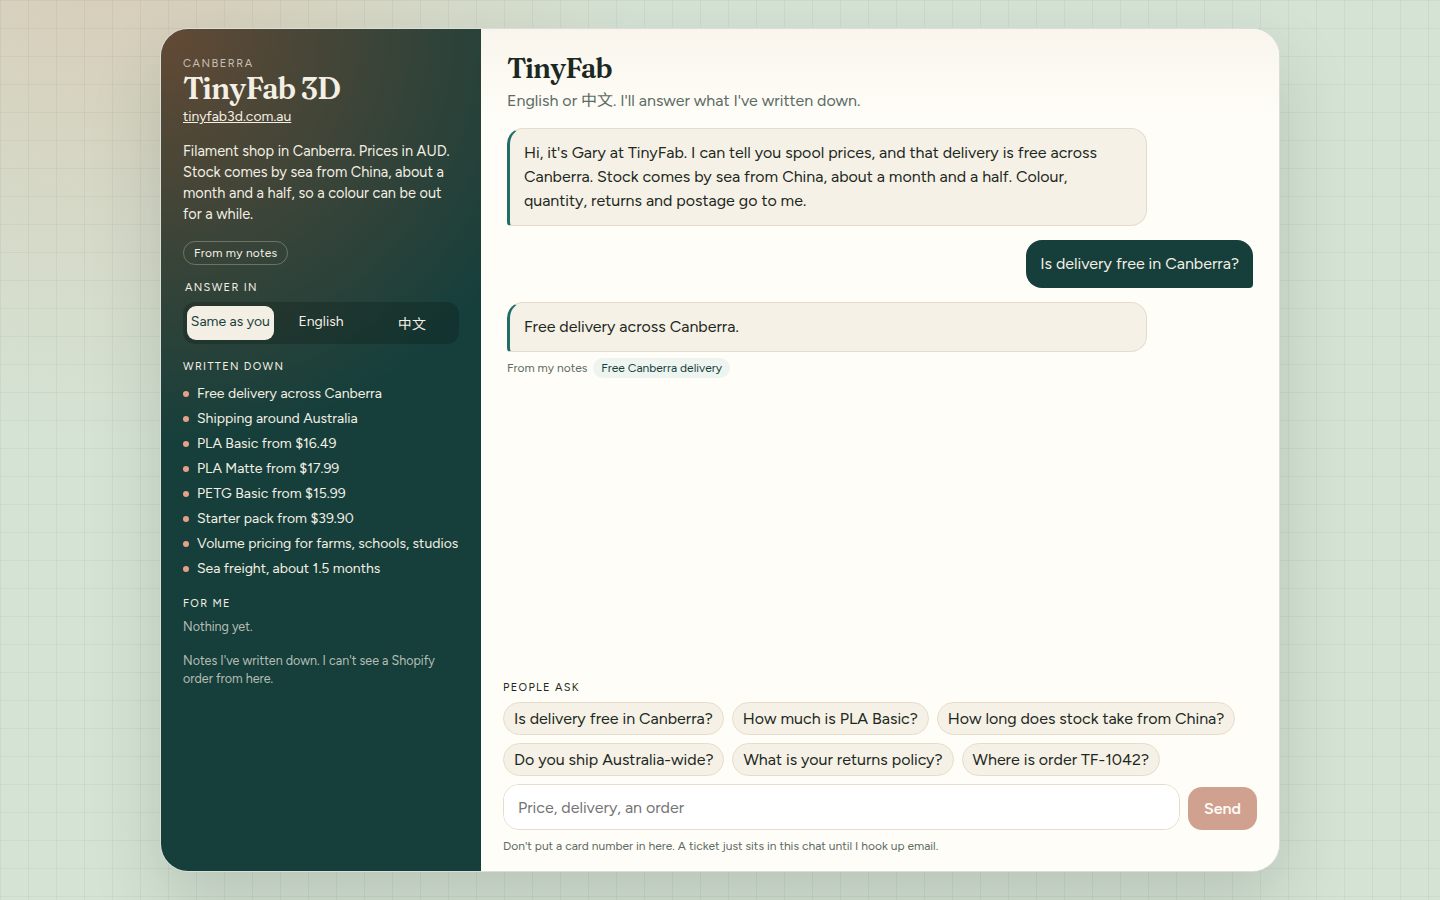
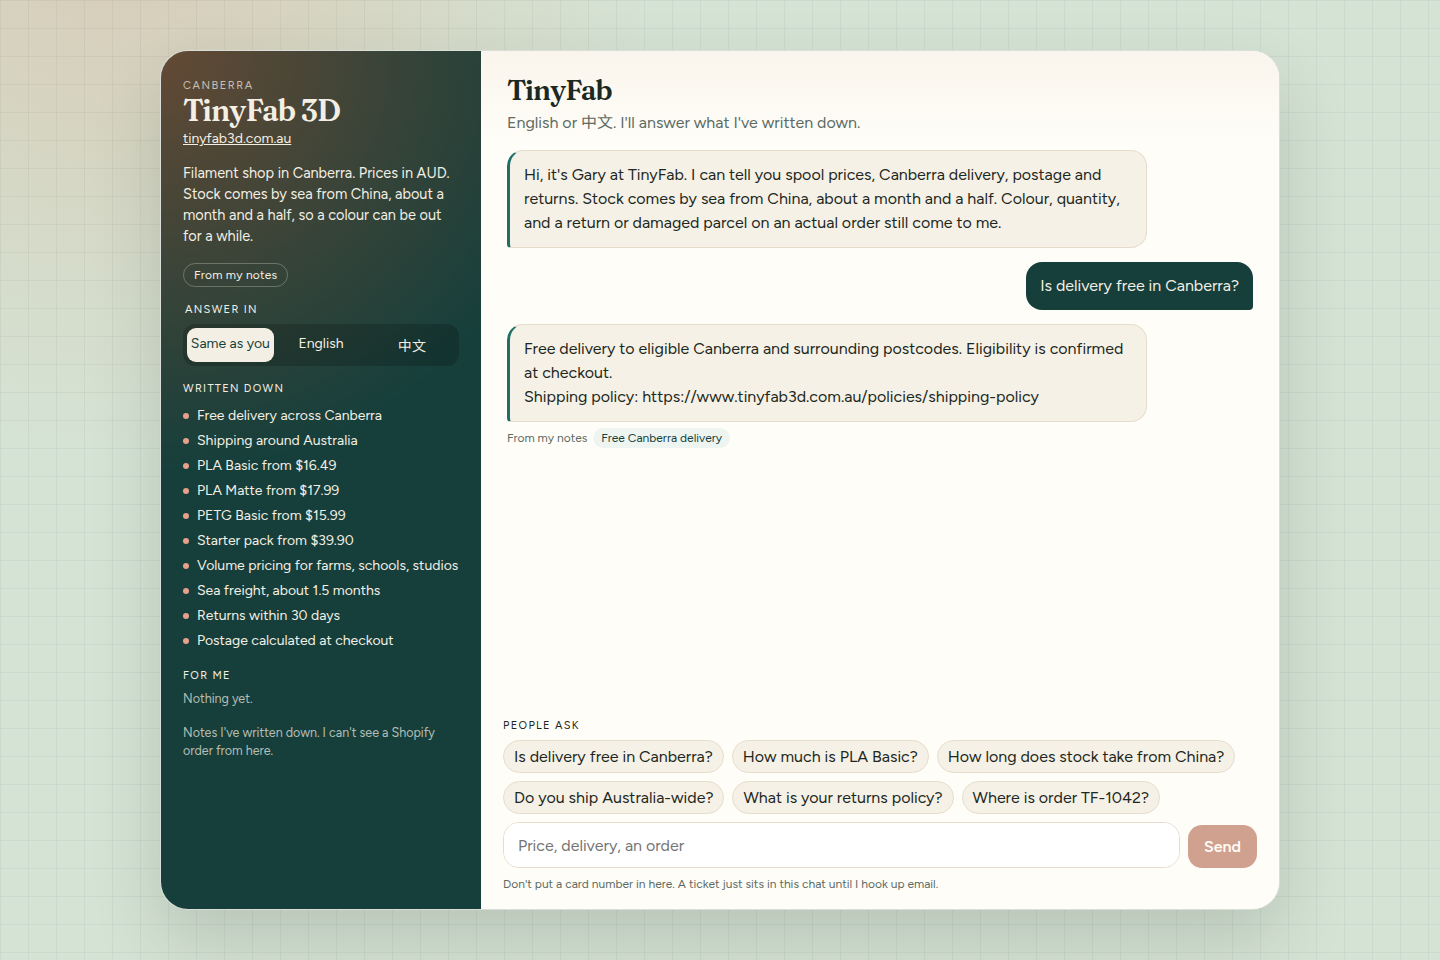
Answer from TinyFab's published return and shipping policies.
The notes link the refund and shipping pages. A return, refund, or damage claim on an actual order still opens a ticket.

Changed region(s): [[0.0938, 0.0311, 0.9062, 0.8089], [0.0938, 0.7467, 0.9062, 0.9956], [0.3438, 0.2489, 0.875, 0.4667]]

diff --git a/client/src/i18n.ts b/client/src/i18n.ts
@@ -52,6 +52,8 @@ export const copy: Record<Lang, Copy> = {
       'Starter pack from $39.90',
       'Volume pricing for farms, schools, studios',
       'Sea freight, about 1.5 months',
+      'Returns within 30 days',
+      'Postage calculated at checkout',
     ],
     ticketsLabel: 'For me',
     noTickets: 'Nothing yet.',
@@ -82,6 +84,7 @@ export const copy: Record<Lang, Copy> = {
       order_lookup: 'Needs the Shopify order',
       unconfirmed: "I haven't written this down",
       ask_gary: 'Material, colour or quantity',
+      claim: 'A return or a damaged parcel',
     },
     modeMock: 'From my notes',
     modeLive: (model) => `Using ${model}`,
@@ -90,7 +93,7 @@ export const copy: Record<Lang, Copy> = {
     footer:
       "Don't put a card number in here. A ticket just sits in this chat until I hook up email.",
     welcome:
-      "Hi, it's Gary at TinyFab. I can tell you spool prices, and that delivery is free across Canberra. Stock comes by sea from China, about a month and a half. Colour, quantity, returns and postage go to me.",
+      "Hi, it's Gary at TinyFab. I can tell you spool prices, Canberra delivery, postage and returns. Stock comes by sea from China, about a month and a half. Colour, quantity, and a return or damaged parcel on an actual order still come to me.",
   },
   zh: {
     lede: '堪培拉的线材店。价格是澳元。货从中国海运过来，大概一个半月，所以有的颜色会断一阵。',
@@ -109,6 +112,8 @@ export const copy: Record<Lang, Copy> = {
       '入门套装 39.90 澳元起',
       '农场、学校、工作室可以谈批量价',
       '海运大概一个半月',
+      '签收后 30 天内可退',
+      '运费在结账时按重量算',
     ],
     ticketsLabel: '留给我的',
     noTickets: '还没有。',
@@ -139,6 +144,7 @@ export const copy: Record<Lang, Copy> = {
       order_lookup: '要查 Shopify 订单',
       unconfirmed: '我还没写下来',
       ask_gary: '材料、颜色或数量',
+      claim: '一笔退货或破损',
     },
     modeMock: '按我的笔记回',
     modeLive: (model) => `用着 ${model}`,
@@ -146,6 +152,6 @@ export const copy: Record<Lang, Copy> = {
     networkError: '没发出去。服务开了吗？',
     footer: '别把卡号发在这里。工单先记在这个聊天里，邮件我还没接上。',
     welcome:
-      '你好，我是 Gary，TinyFab 在堪培拉。线材价格和堪培拉免费送货我可以答。货从中国海运过来，大概一个半月。颜色、数量、退货和运费，我自己回。',
+      '你好，我是 Gary，TinyFab 在堪培拉。线材价格、堪培拉送货、运费和退货规则我可以答。货从中国海运过来，大概一个半月。颜色、数量，以及某一单的退货或破损，还是我自己处理。',
   },
 };

diff --git a/server/test/retrieval.test.ts b/server/test/retrieval.test.ts
@@ -52,12 +52,12 @@ describe('searchKnowledge', () => {
     );
     expect(searchKnowledge('How much is PLA Basic?', articles)[0]?.id).toBe('products.pla-basic');
     expect(searchKnowledge('How much is PETG Basic?', articles)[0]?.id).toBe('products.petg-basic');
-    expect(searchKnowledge('What is your returns policy?', articles)[0]?.id).toBe('todo.returns');
+    expect(searchKnowledge('What is your returns policy?', articles)[0]?.id).toBe('returns.policy');
     expect(searchKnowledge('How much is postage to Melbourne?', articles)[0]?.id).toBe(
-      'todo.shipping-cost',
+      'shipping.postage',
     );
     expect(searchKnowledge('How many days does delivery take?', articles)[0]?.id).toBe(
-      'todo.delivery-days',
+      'shipping.times',
     );
     expect(searchKnowledge('How long does sea freight from China take?', articles)[0]?.id).toBe(
       'stock.leadtime',
@@ -77,7 +77,7 @@ describe('searchKnowledge', () => {
     expect(petg?.matchedLang).toBe('zh');
 
     expect(searchKnowledge('从中国海运大概要多久', articles)[0]?.id).toBe('stock.leadtime');
-    expect(searchKnowledge('退货怎么算', articles)[0]?.id).toBe('todo.returns');
+    expect(searchKnowledge('退货怎么算', articles)[0]?.id).toBe('returns.policy');
   });
 
   it('gives in-catalogue questions a high overlap and off-topic questions a low one', () => {
@@ -90,16 +90,19 @@ describe('searchKnowledge', () => {
     expect(overlapConfidence('hello there', 'free delivery in canberra')).toBe(0);
   });
 
-  it('marks returns, postage and delivery days for Gary to confirm', () => {
-    const todos = articles.filter((article) => article.status === 'todo' && article.lang === 'en');
-    expect(todos.map((article) => article.id).sort()).toEqual([
-      'todo.delivery-days',
-      'todo.returns',
-      'todo.shipping-cost',
-    ]);
-    for (const article of todos) {
-      expect(article.summary).toBe('TODO: confirm with Gary');
-    }
+  it('points at the published return and shipping policies', () => {
+    const returns = articles.find(
+      (article) => article.id === 'returns.policy' && article.lang === 'en',
+    );
+    const postage = articles.find(
+      (article) => article.id === 'shipping.postage' && article.lang === 'en',
+    );
+    expect(returns?.summary).toContain('https://www.tinyfab3d.com.au/policies/refund-policy');
+    expect(returns?.summary).toContain('30 days');
+    expect(returns?.summary).toContain('20%');
+    expect(postage?.summary).toContain('https://www.tinyfab3d.com.au/policies/shipping-policy');
+    expect(postage?.summary).toContain('12.50');
+    expect(articles.some((article) => article.status === 'todo')).toBe(false);
   });
 
   it('returns nothing for an empty query', () => {

diff --git a/server/src/handoff/decide.ts b/server/src/handoff/decide.ts
@@ -40,16 +40,41 @@ const MATERIAL_OR_COLOUR = [
 ];
 
 const QUANTITY = [
-  /\bhow many\b/i,
+  /\bhow many (?!days\b)/i,
   /\bhow much (?!is\b|does\b|are\b)/i,
   /\b\d+\s?(?:kg|kgs|rolls?|spools?)\b/i,
   /多少卷|多少公斤|要多少|买多少/,
+];
+
+const RETURN_REQUEST = [
+  /\b(?:i want to|i'd like to|please) (?:return|refund)\b/i,
+  /\b(?:return|refund) my\b/i,
+  /\bstart a return\b/i,
+  /我要退|我想退|申请退/,
+];
+
+const DAMAGE_CLAIM = [
+  /\b(?:my|i) .{0,48}\b(?:damaged|defective|faulty|broken|wrong item)\b/i,
+  /\barrived damaged\b/i,
+  /\b(?:received|got) (?:a |the )?(?:damaged|wrong|defective)\b/i,
+  /我(?:的|收到).{0,16}(?:破损|损坏|发错|坏了)/,
 ];
 
 export function needsGary(message: string): boolean {
   return (
     MATERIAL_OR_COLOUR.some((pattern) => pattern.test(message)) ||
     QUANTITY.some((pattern) => pattern.test(message))
+  );
+}
+
+export function isCaseForGary(message: string): boolean {
+  if (/\b(?:what if|what happens|policy|restocking)\b/i.test(message)) return false;
+  if (/政策|怎么办|算不算|真空袋/.test(message) && !/我的|我收到|我要|我想/.test(message)) {
+    return false;
+  }
+  return (
+    RETURN_REQUEST.some((pattern) => pattern.test(message)) ||
+    DAMAGE_CLAIM.some((pattern) => pattern.test(message))
   );
 }
 
@@ -96,6 +121,7 @@ export function decideHandoff(input: {
   if (AFFIRMATIONS.some((pattern) => pattern.test(message))) return { action: 'clarify' };
   if (isExplicitHandoff(message)) return { action: 'handoff', reason: 'explicit_request' };
   if (isSpecificOrderLookup(message)) return { action: 'handoff', reason: 'order_lookup' };
+  if (isCaseForGary(message)) return { action: 'handoff', reason: 'claim' };
   if (needsGary(message)) return { action: 'handoff', reason: 'ask_gary' };
   if (!(input.confidence >= input.threshold)) {
     return { action: 'handoff', reason: 'low_confidence' };

diff --git a/server/test/handoff.test.ts b/server/test/handoff.test.ts
@@ -54,6 +54,15 @@ describe('decideHandoff', () => {
     expect(decideHandoff({ message: 'How much is PLA Basic?', confidence: 1, threshold })).toEqual({
       action: 'answer',
     });
+    expect(
+      decideHandoff({ message: 'How many days does delivery take?', confidence: 1, threshold }),
+    ).toEqual({ action: 'answer' });
+    expect(
+      decideHandoff({ message: 'My spool arrived damaged', confidence: 1, threshold }),
+    ).toEqual({ action: 'handoff', reason: 'claim' });
+    expect(
+      decideHandoff({ message: 'What is your returns policy?', confidence: 1, threshold }),
+    ).toEqual({ action: 'answer' });
   });
 
   it('hands off when retrieval confidence is below the threshold', () => {
@@ -137,10 +146,22 @@ describe('ticket records', () => {
       { message: 'What is your returns policy?', sessionId: 'session1' },
       deps,
     );
-    expect(returns.action).toBe('handoff');
-    expect(returns.ticket?.reason).toBe('unconfirmed');
-    expect(returns.text).not.toContain('TODO');
-    expect(returns.text).not.toMatch(/\b30\b/);
+    expect(returns.action).toBe('answer');
+    expect(returns.ticket).toBeNull();
+    expect(returns.text).toContain('30 days');
+    expect(returns.text).toContain('refund-policy');
+
+    const postage = planReply(
+      { message: 'How much is postage to Melbourne?', sessionId: 'session1' },
+      deps,
+    );
+    expect(postage.action).toBe('answer');
+    expect(postage.text).toContain('12.50');
+    expect(postage.text).toContain('current');
+
+    const damaged = planReply({ message: 'My spool arrived damaged', sessionId: 'session1' }, deps);
+    expect(damaged.ticket?.reason).toBe('claim');
+    expect(damaged.text).toContain('support@tinyfab3d.com.au');
 
     const colour = planReply(
       { message: 'Which colour should I get?', sessionId: 'session1' },

diff --git a/server/src/llm/mock.ts b/server/src/llm/mock.ts
@@ -23,6 +23,9 @@ export function composeHandoff(language: Lang, ticket: Ticket): string {
     if (ticket.reason === 'ask_gary') {
       return `材料、颜色和数量我自己回。单号 ${ticket.id}。`;
     }
+    if (ticket.reason === 'claim') {
+      return `退货、退款或破损我没法在这里批。把订单号发到 support@tinyfab3d.com.au，破损请附照片。留给 Gary。单号 ${ticket.id}。`;
+    }
     if (ticket.reason === 'unconfirmed') {
       return `这个我还没写下来，所以不编。留给 Gary。单号 ${ticket.id}。`;
     }
@@ -36,6 +39,9 @@ export function composeHandoff(language: Lang, ticket: Ticket): string {
   }
   if (ticket.reason === 'ask_gary') {
     return `Material, colour and quantity are ones I answer myself. ${ticket.id}.`;
+  }
+  if (ticket.reason === 'claim') {
+    return `I can't approve a return, refund or damage claim from here. Email support@tinyfab3d.com.au with the order number, and photos if it's damaged. It's with Gary. ${ticket.id}.`;
   }
   if (ticket.reason === 'unconfirmed') {
     return `I haven't written that down, so I won't make something up. It's with Gary. ${ticket.id}.`;

diff --git a/server/src/llm/messages.ts b/server/src/llm/messages.ts
@@ -27,7 +27,7 @@ export function buildOpenAiMessages(input: {
       content: [
         "You answer messages for TinyFab 3D, Gary Chen's filament shop in Canberra (https://tinyfab3d.com.au).",
         `Reply in ${languageName}.`,
-        'Use only the notes below. Do not invent a return rule, a postage price, a delivery time, a colour, or a quantity.',
+        "Use only the notes below. Do not approve a return, a refund, or a damage claim on someone's order.",
         'Prices are in AUD. Never ask for a card number.',
       ].join(' '),
     },

diff --git a/server/src/kb/parse.ts b/server/src/kb/parse.ts
@@ -24,7 +24,13 @@ export function parseArticle(raw: string, file: string): Article {
   const markdown = text.slice(end + 5).trim();
   const paragraphs = markdown
     .split(/\n\s*\n/)
-    .map((paragraph) => paragraph.replace(/\s+/g, ' ').trim())
+    .map((paragraph) =>
+      paragraph
+        .split('\n')
+        .map((line) => line.replace(/[ \t]+/g, ' ').trim())
+        .filter(Boolean)
+        .join('\n'),
+    )
     .filter(Boolean);
   if (paragraphs.length === 0) throw new Error(`Knowledge file ${file} has no body`);
 

diff --git a/server/src/types.ts b/server/src/types.ts
@@ -5,7 +5,7 @@ export type LanguageMode = 'auto' | Lang;
 export type LlmMode = 'mock' | 'openai';
 
 export type HandoffReason =
-  'explicit_request' | 'low_confidence' | 'order_lookup' | 'unconfirmed' | 'ask_gary';
+  'explicit_request' | 'low_confidence' | 'order_lookup' | 'unconfirmed' | 'ask_gary' | 'claim';
 
 export type HistoryMessage = {
   role: 'user' | 'assistant';

diff --git a/client/src/types.ts b/client/src/types.ts
@@ -5,7 +5,7 @@ export type LanguageMode = 'auto' | Lang;
 export type LlmMode = 'mock' | 'openai';
 
 export type HandoffReason =
-  'explicit_request' | 'low_confidence' | 'order_lookup' | 'unconfirmed' | 'ask_gary';
+  'explicit_request' | 'low_confidence' | 'order_lookup' | 'unconfirmed' | 'ask_gary' | 'claim';
 
 export type Source = {
   id: string;

diff --git a/README.md b/README.md
@@ -12,12 +12,15 @@ What it will answer:
 - TinyFab PLA Matte 1.75mm 1kg, from $17.99, 7 variants
 - TinyFab PETG Basic 1.75mm 1kg, from $15.99, 12 variants
 - Essential Starter Pack, from $39.90
-- Free delivery across Canberra
-- Shipping around Australia
+- Free local delivery for eligible Canberra and surrounding postcodes
+- How long local and interstate delivery takes, and the current postage examples
+- Returns, from the published refund policy
 - Volume pricing for print farms, schools, studios and businesses
 - Stock comes by sea from China, about a month and a half, so a colour can be out of stock for a while
 
-Material, colour and quantity go to me. So does anything I haven't confirmed: returns, the actual postage price, and how many days delivery takes. Those three are in the notes as `TODO: confirm with Gary`. The chat opens a ticket instead of inventing a rule. It also can't see Shopify, so a real order number becomes a ticket too.
+The return and shipping notes link to [the refund policy](https://www.tinyfab3d.com.au/policies/refund-policy) and [the shipping policy](https://www.tinyfab3d.com.au/policies/shipping-policy). Postage examples are the current rates. Checkout shows the final price.
+
+Material, colour and quantity still come to me. So does a return, refund or damage claim on an actual order. The chat can't see Shopify, so an order number becomes a ticket too.
 
 No key is committed. Without `OPENAI_API_KEY` it reads the matching note back. With a key it sends that same note to the model.
 
@@ -31,7 +34,9 @@ From my notes, no API key.
 
 ![PETG Basic price, in Chinese](docs/zh-petg-price.png)
 
-![A returns question left for me, instead of a made-up policy](docs/handoff-returns.png)
+![The published return rules, with a link to the policy page](docs/returns-policy.png)
+
+![A damaged spool left for me, instead of an approval](docs/handoff-claim.png)
 
 ![Same chat on a phone](docs/mobile-zh-delivery.png)
 
@@ -66,15 +71,12 @@ docker run --rm -p 8787:8787 tinyfab-support
 
 ## Not done yet
 
-- It does not look up orders. I haven't connected Shopify.
+- It does not look up orders, approve a return, or judge a damage claim. I haven't connected Shopify.
 - Tickets stay in memory. I don't get an email when one is opened.
-- Returns, exact postage, and delivery days are still unconfirmed. The chat will not guess them.
+- Postage in the notes is the current example for a 1–3 kg parcel. The checkout price can differ.
 - I haven't run the Docker image on a server.
 
 ## TODO
 
-- Confirm the return rules
-- Confirm postage prices
-- Confirm how many days Canberra and interstate delivery actually take
 - Email me when a ticket is opened
 - Read an order from Shopify once I'm ready to connect it

diff --git a/knowledge/en/returns.md b/knowledge/en/returns.md
@@ -1,0 +1,14 @@
+---
+id: returns.policy
+lang: en
+title: Returns
+tags: return, returns, refund, policy, restocking, damaged
+status: known
+---
+
+You can return within 30 days of receiving the order. The item must be unused, in its original packaging, and come with proof of purchase.
+To start a return, email support@tinyfab3d.com.au with the order number and the reason. If it's approved, TinyFab sends a return label and instructions. Items sent back without approval can't be accepted.
+Change of mind: shipping both ways and payment processing fees aren't refunded, and approved returns have a 20% restocking fee. Sale items can't be returned for change of mind.
+Damaged, defective or wrong items: contact TinyFab within 14 days of delivery with details and photos, and keep the remaining filament and the packaging. A burst vacuum bag doesn't count as a defect. If testing finds no fault, the claim may be treated as a change-of-mind return.
+Nothing in the policy limits rights under the Australian Consumer Law.
+Refund policy: https://www.tinyfab3d.com.au/policies/refund-policy

diff --git a/knowledge/en/delivery-times.md b/knowledge/en/delivery-times.md
@@ -1,0 +1,14 @@
+---
+id: shipping.times
+lang: en
+title: Delivery times
+tags: days, delivery, arrive, dispatch, business, local, interstate
+status: known
+---
+
+Most local orders arrive the same day or the next business day. Same-day cut-off is 9:00am Monday to Friday and 12:00pm on weekends. TinyFab's own Canberra team delivers. Estimates aren't guaranteed.
+For the rest of Australia, orders are dispatched in 1–3 business days, then delivery usually takes 1–8 business days.
+For PO Boxes and Parcel Lockers, choose Australia Post. A tracking email is sent on dispatch.
+Local delivery can take the same day or the next business day. Interstate delivery takes 1–8 business days after dispatch.
+If a parcel is marked delivered but missing, or it arrives damaged, email support@tinyfab3d.com.au.
+Shipping policy: https://www.tinyfab3d.com.au/policies/shipping-policy
